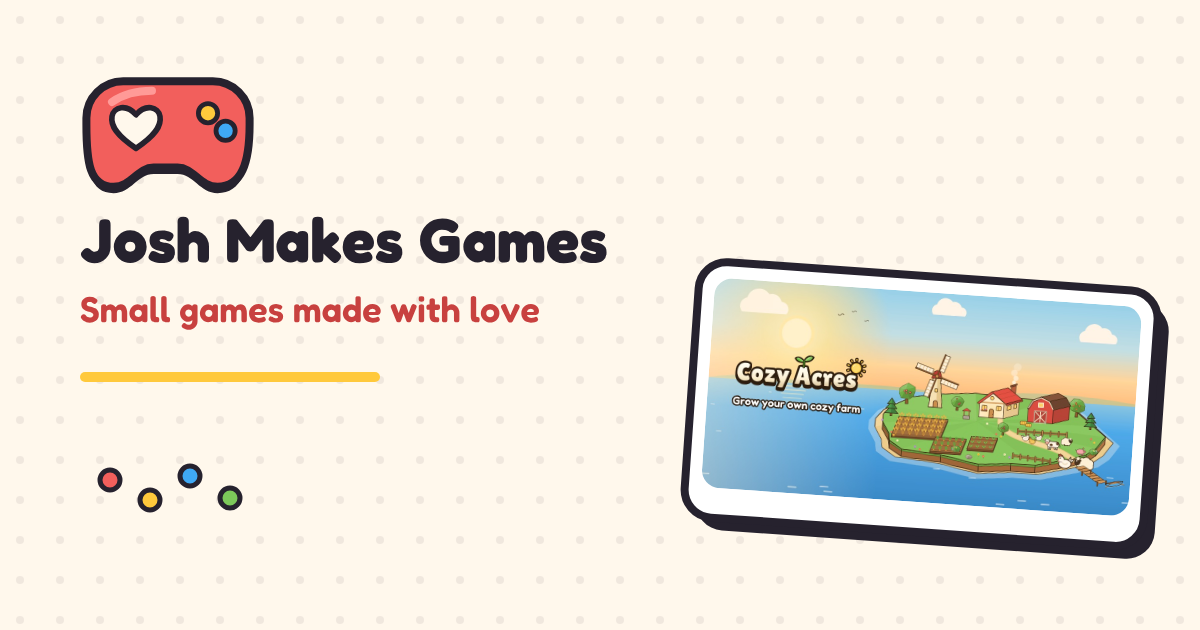
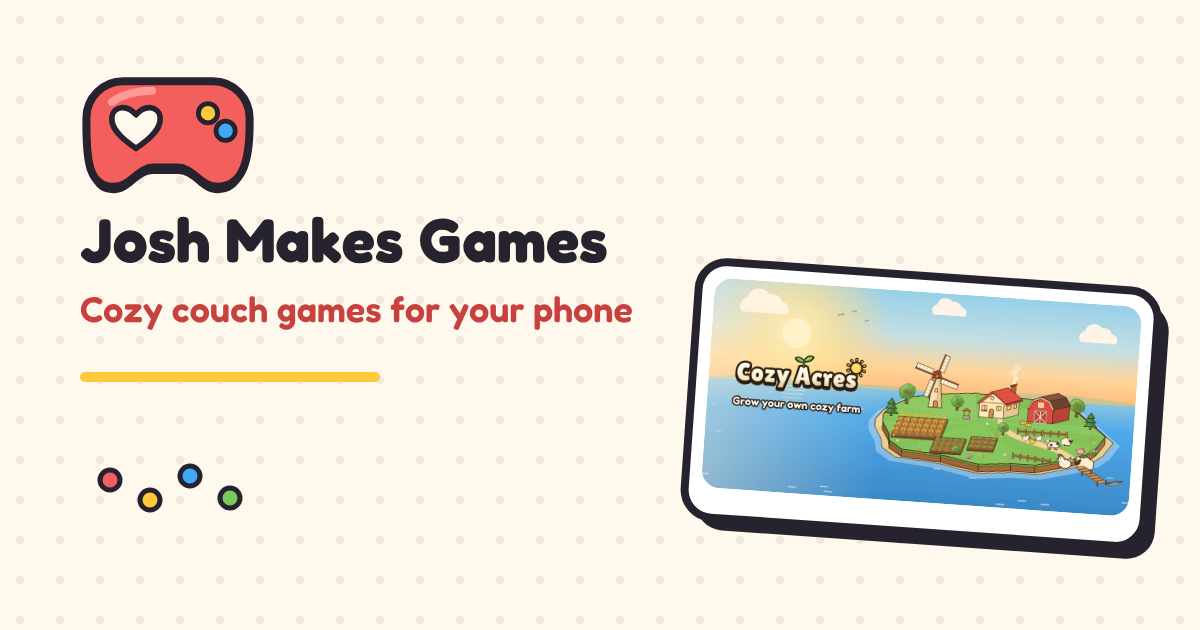
Studio: cozy couch games for your phone (no 'made with love')
Claude-Session: https://claude.ai/code/session_01Tin5nNLMGZS1o76AmH1E8o

Changed region(s): [[0.0617, 0.4524, 0.5242, 0.5429]]

diff --git a/index.html b/index.html
@@ -3,13 +3,13 @@
 <head>
 <meta charset="utf-8">
 <meta name="viewport" content="width=device-width, initial-scale=1">
-<title>Josh Makes Games - Small games made with love</title>
-<meta name="description" content="Josh Makes Games is one dad in a small Australian town making small, kind games in his spare time. Maker of Cozy Acres, a cozy farming game with no ads.">
+<title>Josh Makes Games - Cozy couch games for your phone</title>
+<meta name="description" content="Josh Makes Games makes cozy couch games you can play on your phone. Maker of Cozy Acres, a cozy farming game with no ads.">
 <link rel="canonical" href="https://joshmakesgames.app/">
 <meta property="og:type" content="website">
 <meta property="og:site_name" content="Josh Makes Games">
-<meta property="og:title" content="Josh Makes Games - Small games made with love">
-<meta property="og:description" content="One dad in a small Australian town making small, kind games. Maker of Cozy Acres.">
+<meta property="og:title" content="Josh Makes Games - Cozy couch games for your phone">
+<meta property="og:description" content="Cozy couch games you can play on your phone. Maker of Cozy Acres.">
 <meta property="og:url" content="https://joshmakesgames.app/">
 <meta property="og:image" content="https://joshmakesgames.app/assets/img/og-image-1200x630.png">
 <meta property="og:image:width" content="1200">
@@ -41,8 +41,8 @@
 <main id="main">
   <section class="hero">
     <div class="wrap">
-      <h1>Small games made with <span>love</span></h1>
-      <p class="hero__lead">I'm Josh, a dad in a small Australian town who makes small, kind games in my spare time. No ads and no tricks.</p>
+      <h1>Cozy couch games <span>for your phone</span></h1>
+      <p class="hero__lead">I'm Josh. I make cozy couch games you can pick up and play on your phone. No ads and no tricks.</p>
 
       <article class="banner" aria-labelledby="featured-title">
         <img class="banner__img" src="/assets/img/cozy-acres-feature-1024x500.jpg" alt="Cozy Acres: a little farm island at golden hour with a farmhouse, barn, windmill and animals" width="1024" height="500">
@@ -108,7 +108,7 @@
       <div>
         <h2 id="about-title">About me</h2>
         <p>Hi, I'm Josh. I'm a 30-something dad living in a small town in Australia, and I make games in my spare time.</p>
-        <p>Josh Makes Games is just me. I design, build, test and release everything myself, from the art and code to the servers and the store listings. I make the kind of games I'd happily hand to my own family: cozy, kind, and free of ads and tricks.</p>
+        <p>Josh Makes Games is just me. I design, build, test and release everything myself, from the art and code to the servers and the store listings. I make cozy couch games: the kind you can play on your phone from the sofa, a few relaxing minutes at a time.</p>
         <p>Cozy Acres is my first game. There will be more, in all sorts of styles, made with the same care.</p>
         <dl class="facts">
           <div><dt>Based in</dt><dd>A small town in Australia</dd></div>
@@ -138,7 +138,7 @@
       </ul></nav>
       <div><h2>Josh Makes Games</h2><ul><li><a href="#games">My games</a></li><li><a href="#about">About me</a></li><li><a href="#contact">Contact</a></li></ul></div>
     </div>
-    <small>&copy; 2026 Josh Makes Games. Made with love in Australia.</small>
+    <small>&copy; 2026 Josh Makes Games. Made in Australia.</small>
   </div>
 </footer>
 </body>
